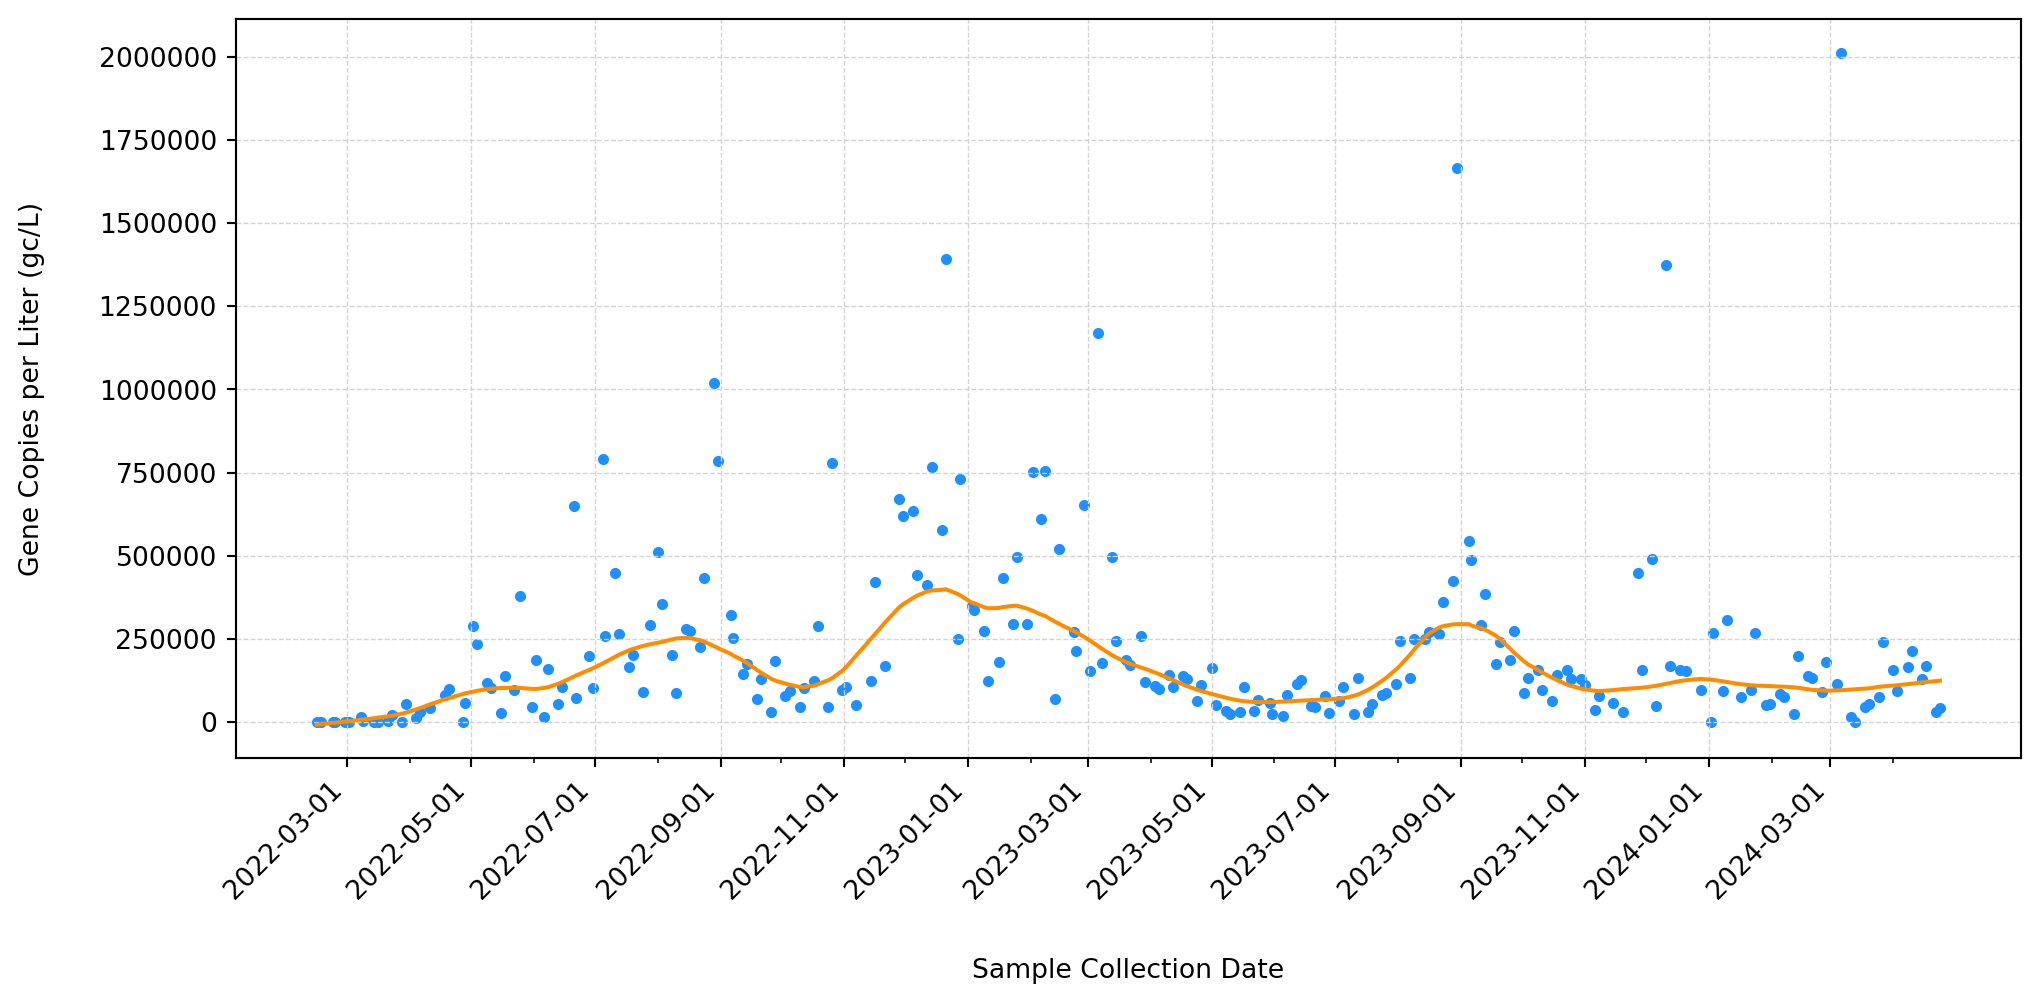
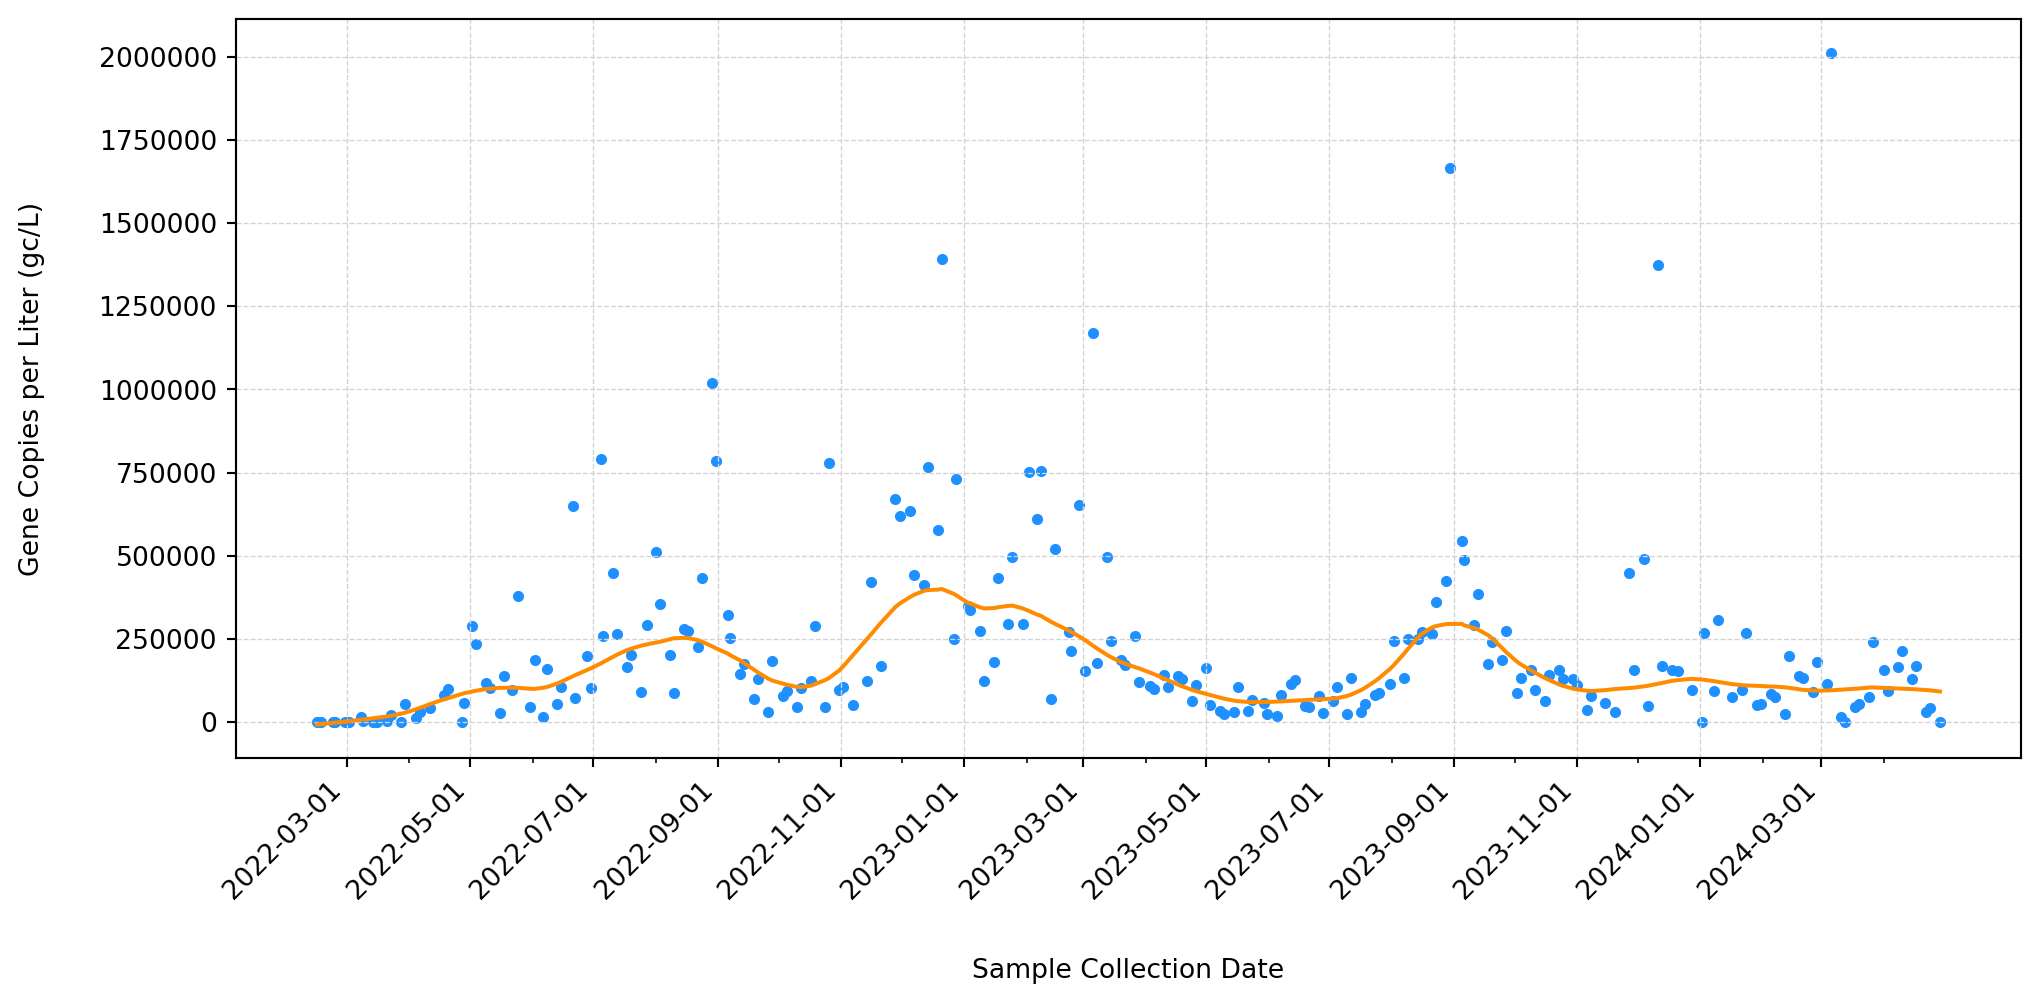
Built site for gh-pages

diff --git a/index.html b/index.html
@@ -80,7 +80,7 @@ grid-auto-rows: minmax(0, 1fr);">
 Most Recent Collection
 </p>
 <p class="value-box-value">
-2024-04-24
+2024-04-29
 </p>
 </div>
 </div>
@@ -96,7 +96,7 @@ Most Recent Collection
 Most Recent Concentration (gc/L)
 </p>
 <p class="value-box-value">
-42600
+0
 </p>
 </div>
 </div>
@@ -1029,6 +1029,10 @@ grid-auto-rows: minmax(0, 1fr);">
 <tr class="odd">
 <td style="text-align: left;">2024-04-24</td>
 <td style="text-align: right;">42600</td>
+</tr>
+<tr class="even">
+<td style="text-align: left;">2024-04-29</td>
+<td style="text-align: right;">0</td>
 </tr>
 </tbody>
 </table>
